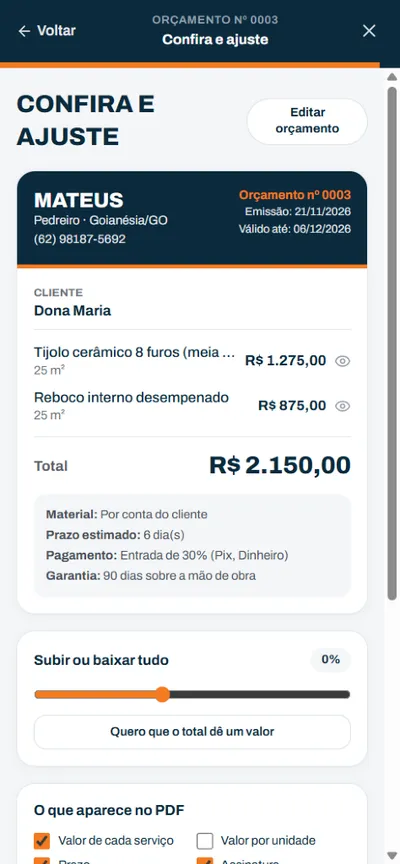
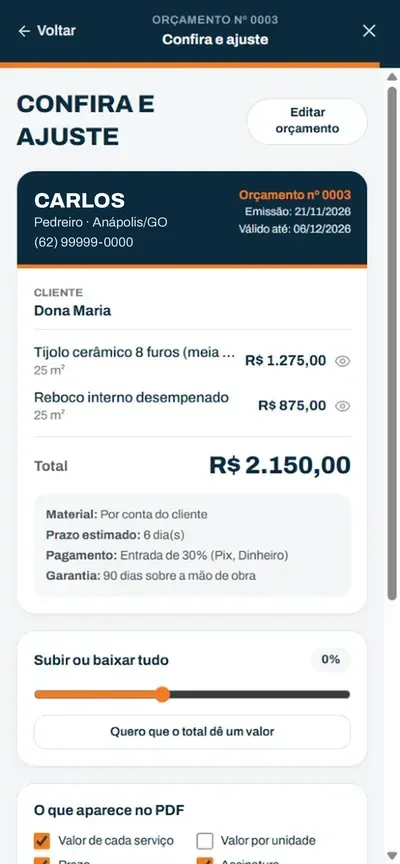
Add files via upload

Changed region(s): [[0.09, 0.2188, 0.42, 0.3125], [0.6, 0.2188, 0.69, 0.25], [0.78, 0.2188, 0.84, 0.25]]

diff --git a/QUIZ PEDREIRO/public/oferta.html b/QUIZ PEDREIRO/public/oferta.html
@@ -68,7 +68,7 @@
 
       <div id="fal" class="fal">
         <div class="fal-tela" style="padding:0;overflow:hidden;">
-          <img src="/img/app/5-revisao-total.webp" alt="Revisão final do orçamento no Orçaí" style="width:100%;height:auto;display:block;" />
+          <img src="/img/app/5-revisao-total.webp?v=3" alt="Revisão final do orçamento no Orçaí" style="width:100%;height:auto;display:block;" />
         </div>
       </div>
 
